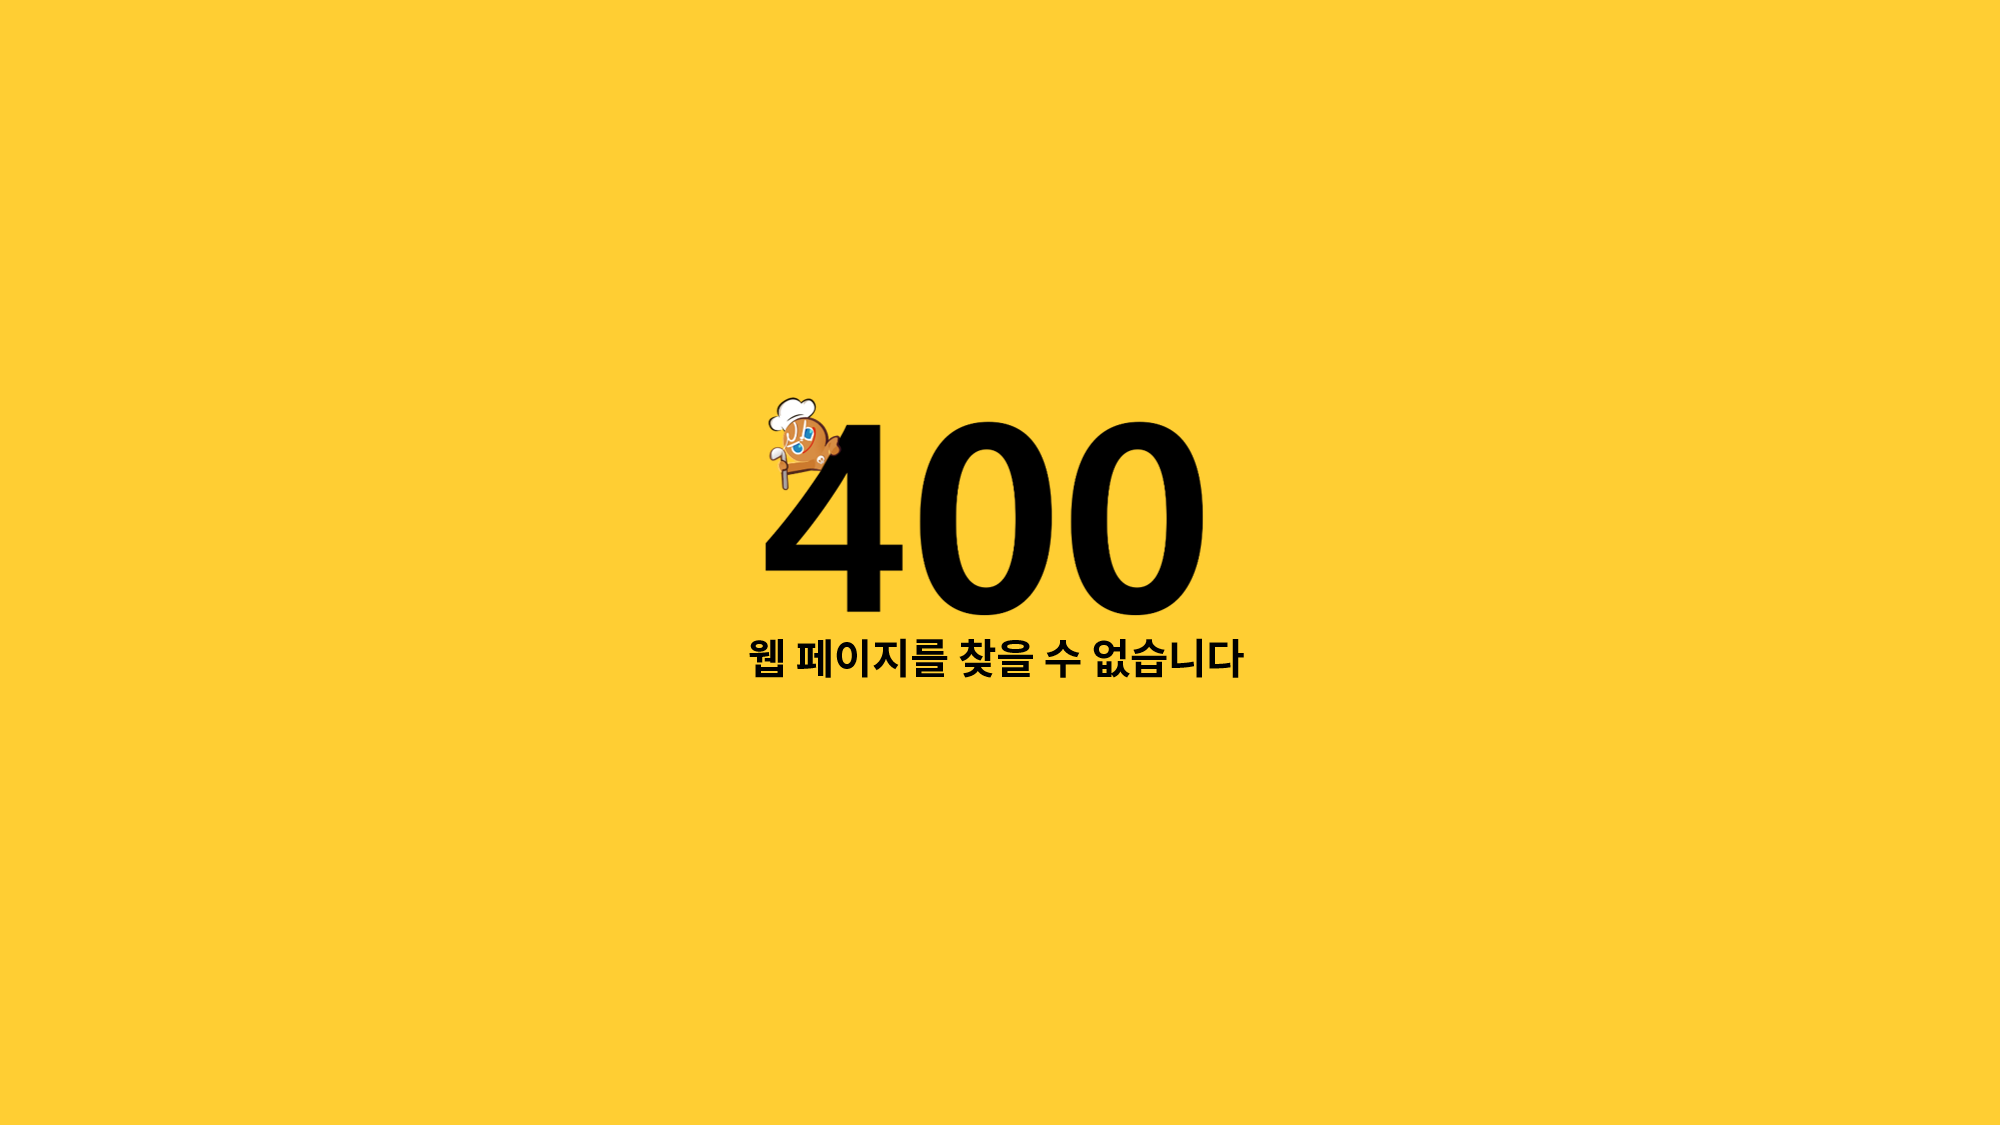
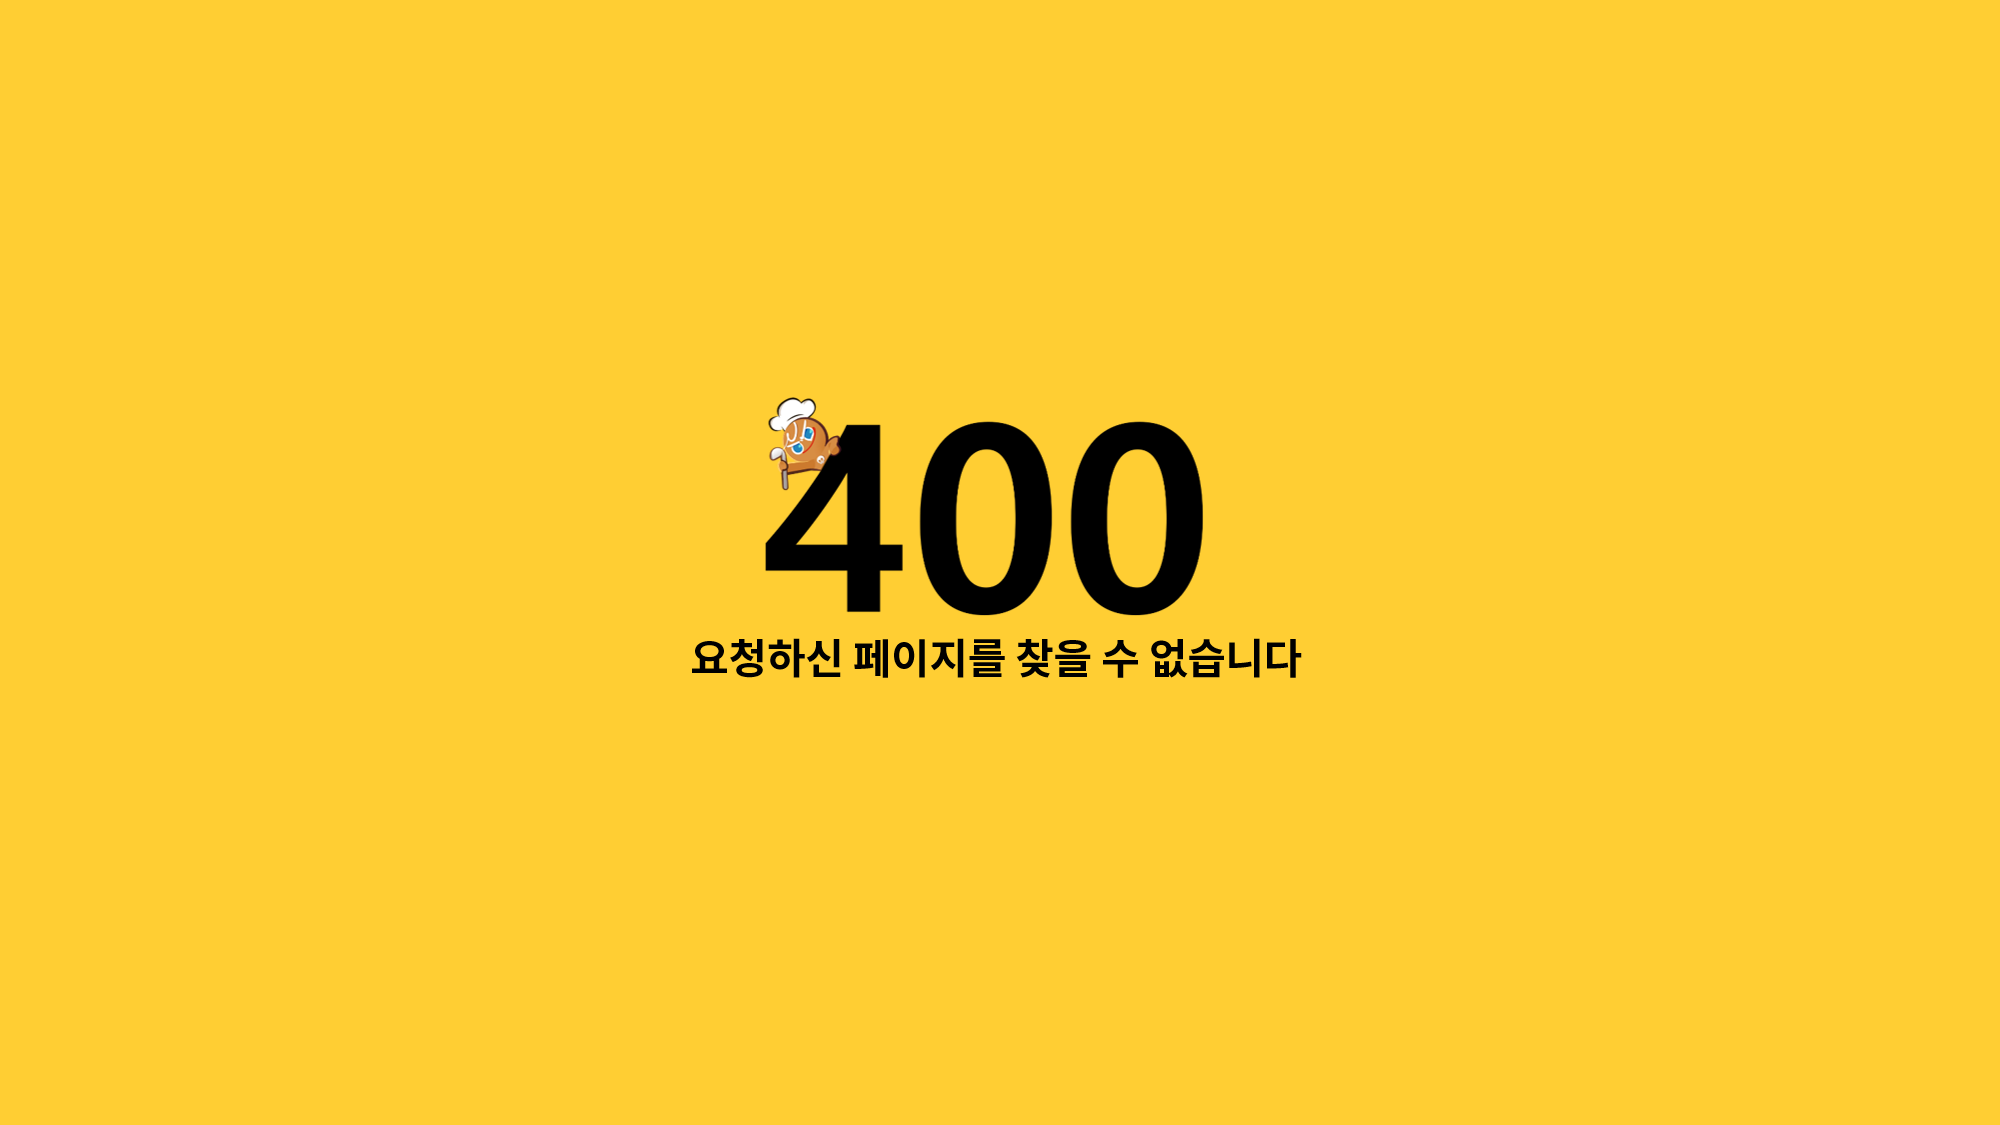
ControllerAdvice로 예외 페이지 처리 추가

Changed region(s): [[0.341, 0.56, 0.651, 0.6222]]

diff --git a/src/main/java/kr/co/cookinglearn/GlobalControllerAdvice.java b/src/main/java/kr/co/cookinglearn/GlobalControllerAdvice.java
@@ -1,35 +1,67 @@
 package kr.co.cookinglearn;
 
+import java.net.BindException;
 import java.nio.file.AccessDeniedException;
+
+import org.slf4j.Logger;
+import org.slf4j.LoggerFactory;
+import org.springframework.beans.ConversionNotSupportedException;
+import org.springframework.beans.TypeMismatchException;
+import org.springframework.http.converter.HttpMessageNotReadableException;
+import org.springframework.http.converter.HttpMessageNotWritableException;
+import org.springframework.web.bind.MethodArgumentNotValidException;
+import org.springframework.web.bind.MissingServletRequestParameterException;
 import org.springframework.web.bind.annotation.ControllerAdvice;
 import org.springframework.web.bind.annotation.ExceptionHandler;
+import org.springframework.web.servlet.NoHandlerFoundException;
+
+import kr.co.cookinglearn.user.controller.UserController;
 
 @ControllerAdvice
 public class GlobalControllerAdvice {
 	
-//	//400
-//	@ExceptionHandler({RuntimeException.class})
-//	public String BadRequestException(final RuntimeException ex) {
-//		return "exception/error400";
-//	}
-//	
-//	//401
-//	@ExceptionHandler({AccessDeniedException.class})
-//	public String handleAccessDenedException(final AccessDeniedException ex) {
-//		return "exception/error401";
-//	}
-//	
-//	//403
-//	@ExceptionHandler({IllegalAccessException.class})
-//	public String handleForbiddenException(final IllegalAccessException ex) {
-//		return "exception/error403";
-//	}
-//	
-//	//500
-//	@ExceptionHandler({ Exception.class })
-//	public String handleAll(final Exception ex) {
-//		return "exception/error500";
-//	}
+	private static final Logger logger = LoggerFactory.getLogger(GlobalControllerAdvice.class);
 	
+	//400
+	@ExceptionHandler({
+        RuntimeException.class,
+		BindException.class,
+		HttpMessageNotReadableException.class,
+		MethodArgumentNotValidException.class,
+		MissingServletRequestParameterException.class,
+		TypeMismatchException.class
+	})
+	public String BadRequestException(final BindException ex) {
+		logger.warn("error", ex);
+		return "exception/error400";
+	}
+	
+	//401
+	@ExceptionHandler({AccessDeniedException.class})
+	public String handleAccessDenedException(final AccessDeniedException ex) {
+		logger.warn("error", ex);
+		return "exception/error401";
+	}
+	
+	//403
+	@ExceptionHandler({IllegalAccessException.class})
+	public String handleIllegalAccessException(final IllegalAccessException ex) {
+		logger.warn("error", ex);
+		return "exception/error403";
+	}
+	
+	//404
+	@ExceptionHandler({NoHandlerFoundException.class})
+	public String handleNoHandlerFoundException(final NoHandlerFoundException ex) {
+		logger.warn("error", ex);
+		return "exception/error404";
+	}
+	
+	//500
+	@ExceptionHandler({ Exception.class })
+	public String handleServerException(final Exception ex) {
+		logger.warn("error", ex);
+		return "exception/error500";
+	}
 	
 }

diff --git a/src/main/java/kr/co/cookinglearn/user/controller/UserController.java b/src/main/java/kr/co/cookinglearn/user/controller/UserController.java
@@ -194,9 +194,6 @@ public class UserController {
 	   UserVO user = (UserVO) session.getAttribute("login");
 	   // -- 포인트 데이터 뷰에 전송
 	   
-	   System.out.println(user);
-	   System.out.println(pointMapper);
-	   
 	   int point = pointMapper.getUserPoint(user.getUserNo());
 	   model.addAttribute("point", point);
 	   return "mypage/my_info";

diff --git a/src/main/java/kr/co/cookinglearn/admin/common/interceptor/AdminInterceptor.java b/src/main/java/kr/co/cookinglearn/admin/common/interceptor/AdminInterceptor.java
@@ -14,7 +14,7 @@ public class AdminInterceptor extends HandlerInterceptorAdapter{
 	@Override
 	public boolean preHandle(HttpServletRequest request, HttpServletResponse response, Object handler)
 			throws Exception {
-	
+		
 		HttpSession session = request.getSession();
 		
 		//user.model.UserVO 이용
